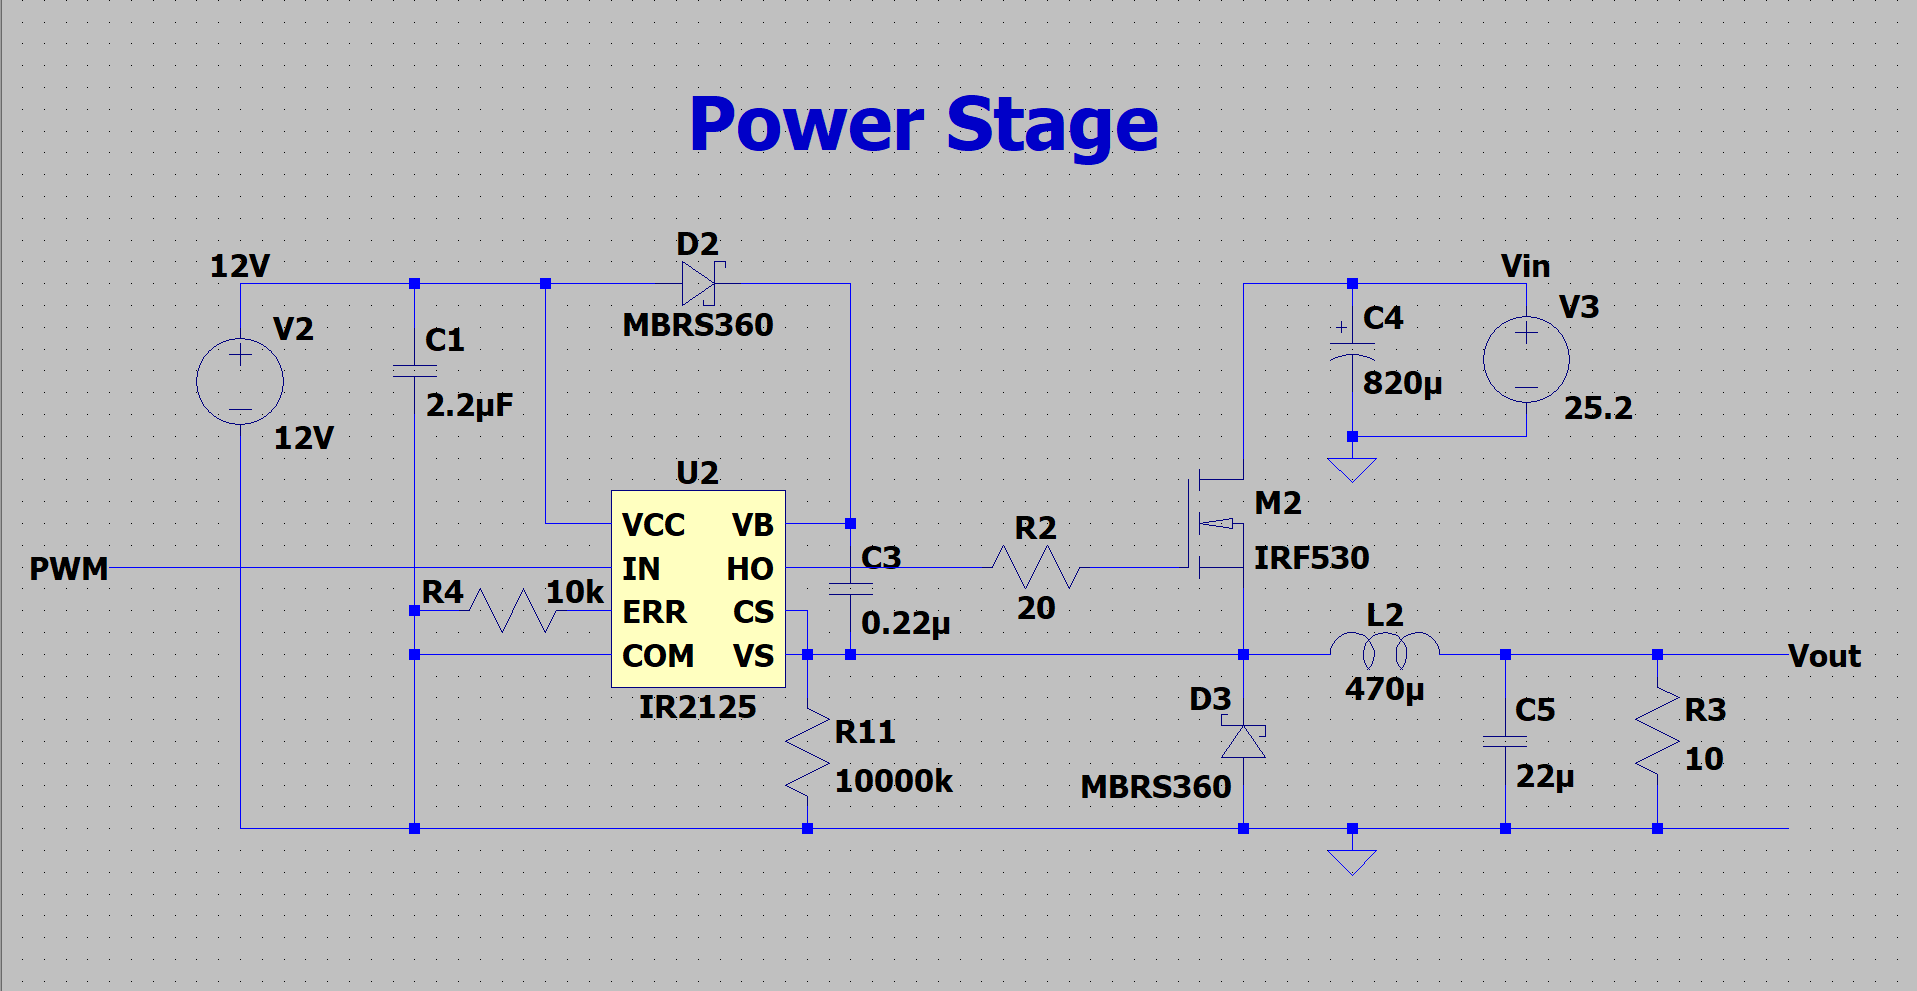
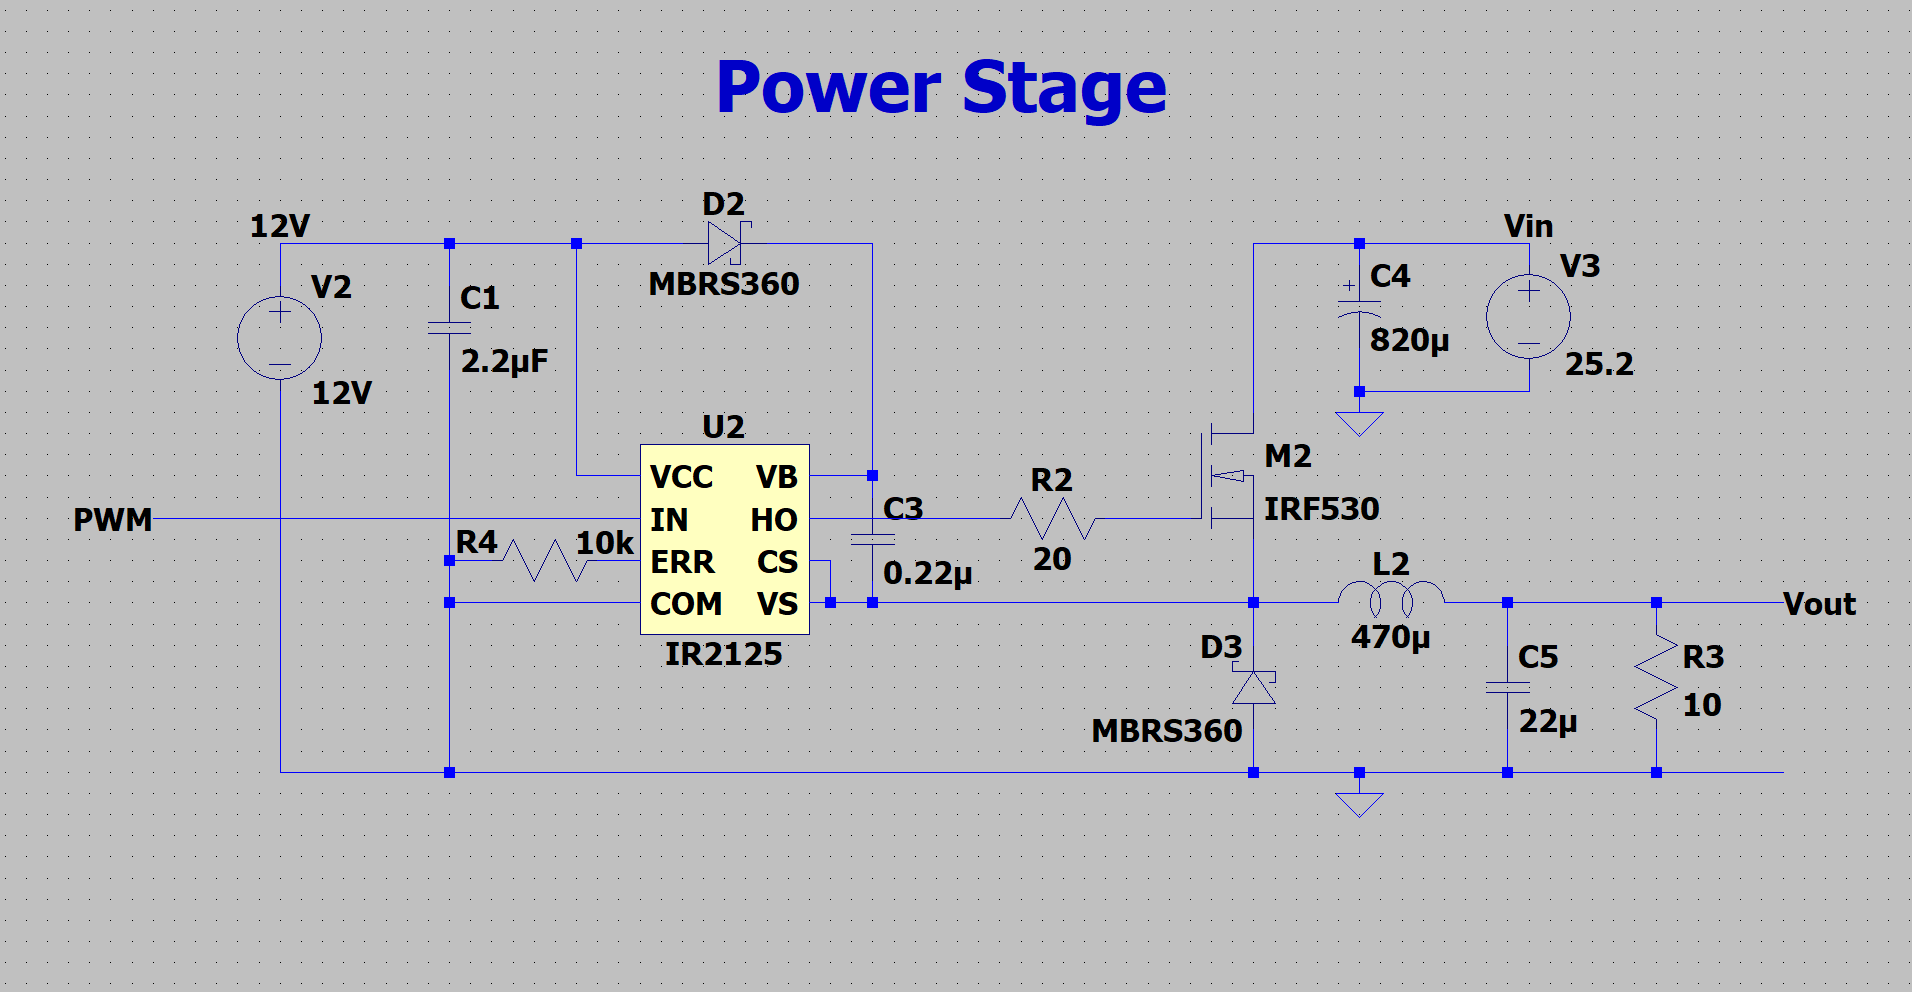
Major edits

diff --git a/src/data/content.js b/src/data/content.js
@@ -200,17 +200,18 @@ export const projects = [
     ],
     highlights: [
       ['Power Architecture', 'Designed an asynchronous buck converter stepping down an 18V–25.2V 6S LiPo input to 5V 100-500 mA at 85% efficiency, maintaining Continuous Conduction Mode across all operating loads.'],
-      ['PWM Controller', 'Implemented an analog voltage-mode PWM controller at 100 kHz, driving an LM334 constant-current source into a TLC555 timer to generate a linear sawtooth ramp fed into a comparator.'],
-      [ 'Compensator', 'Developed an active Type III compensation network using an Op-amp to place double zeros compensating the 1.56 kHz LC double pole, maximizing phase margin and stability under peak 25.2V input gain.'],
-      ['Transient Response', 'Engineered a 10 ms RC soft-start network on the 2.5V reference to suppress turn-on overshoot and limit inrush current to 10 mA, driving the high-side gate via an IR2125 with a 220 nF bootstrap capacitor.'],
+      ['PWM Controller', 'Implemented an analog voltage-mode PWM controller at 100 kHz, driving an LM334 constant-current source into a TLC555 timer to generate a linear sawtooth ramp fed into an MCP6561 comparator.'],
+      [ 'Compensator', 'Developed an active Type III compensation network using an MCP6021 Op-amp to place double zeros compensating the 1.57 kHz LC double pole, maximizing phase margin and stability under peak 25.2V input gain.'],
+      ['Transient Response', 'Engineered a 10 ms RC soft-start network on the 2.5V reference to suppress turn-on overshoot and limit inrush current to 10 mA.'],
       ['PCB Layout', 'Routing a compact 4-layer PCB in Altium, isolating sensitive feedback and timing traces from the high di/dt switching node and integrating a dedicated ground plane to suppress switching noise.'],
     ],
     links: [
       ['Planning Document', 'https://drive.google.com/file/d/1GUGJ41Ly34sU3f9lQwCAKZL2yV-m_Rey/view?usp=sharing'],
     ],
     gallery: [
-      /*{ src: '/buck_control_phase.png', alt: 'Control Stage', type: 'dark', cover: true},*/
-      { src: '/buck_power_stage.png', alt: 'Power Stage', type: 'dark', wide: true }
+      { src: '/buck_power_stage.png', alt: 'Power Stage', type: 'light', cover: true },
+      { src: '/buck_control_stage.png', alt: 'Control Stage', type: 'light', cover: true},
+      { src: '/buck_soft_start.png', alt: 'Soft Start', type: 'dark', wide: true},
     ],
   },
   {
@@ -234,8 +235,8 @@ export const projects = [
       ['Embedded Programming', 'Programmed deterministic PWM generation using ESP32-C3 hardware timers to drive an L298N dual-motor bridge, converting raw PID outputs into directional motor commands.'],
     ],
     gallery: [
-      { src: '/PID_Robot_Schematic.png', alt: 'PID Robot Schematic', type: 'photo', full: true },
-      { src: '/PID_Robot_Standing.png', alt: 'PID Robot Standing', type: 'dark', fill: true},
+      { src: '/PID_Robot_Schematic.png', alt: 'PID Robot Schematic', type: 'light', cover: true },
+      { src: '/PID_Robot_Standing.png', alt: 'PID Robot Standing', type: 'photo', fill: true},
     ],
   },
   {
@@ -321,7 +322,7 @@ export const projects = [
     ],
     gallery: [
       { src: '/mini-rover-prototype.png', alt: 'Mini Rover Prototype', type: 'photo', fill: true },
-      { src: '/mini-rover-block-diagram.png', alt: 'Mini Rover Block Diagram', type: 'photo', cover: true},
+      { src: '/mini-rover-block-diagram.png', alt: 'Mini Rover Block Diagram', type: 'light', cover: true},
     ],
   },
 ];

diff --git a/src/pages/ProjectDetail.jsx b/src/pages/ProjectDetail.jsx
@@ -32,13 +32,13 @@ function GalleryImage({ item }) {
       className={`${frames[item.type]} ${item.wide ? 'md:col-span-2' : ''} ${item.full ? 'self-start' : ''} ${item.square ? 'aspect-square' : ''} ${item.fill ? 'relative' : ''} block`}
       aria-label={`Open ${item.alt} full size`}
     >
-      <img
-        src={src}
-        alt={item.alt}
-        loading="lazy"
-        decoding="async"
-        className={`${item.wide && !isPhoto ? 'w-full h-auto max-h-none' : sizing} opacity-90 hover:opacity-100 transition-opacity`}
-      />
+     <img
+      src={src}
+      alt={item.alt}
+      loading="lazy"
+      decoding="async"
+      className={`${item.wide && !isPhoto ? 'w-full h-auto max-h-none' : sizing} ${isPhoto ? 'opacity-90 hover:opacity-100 transition-opacity' : ''}`}
+    />
     </a>
   );
 }
